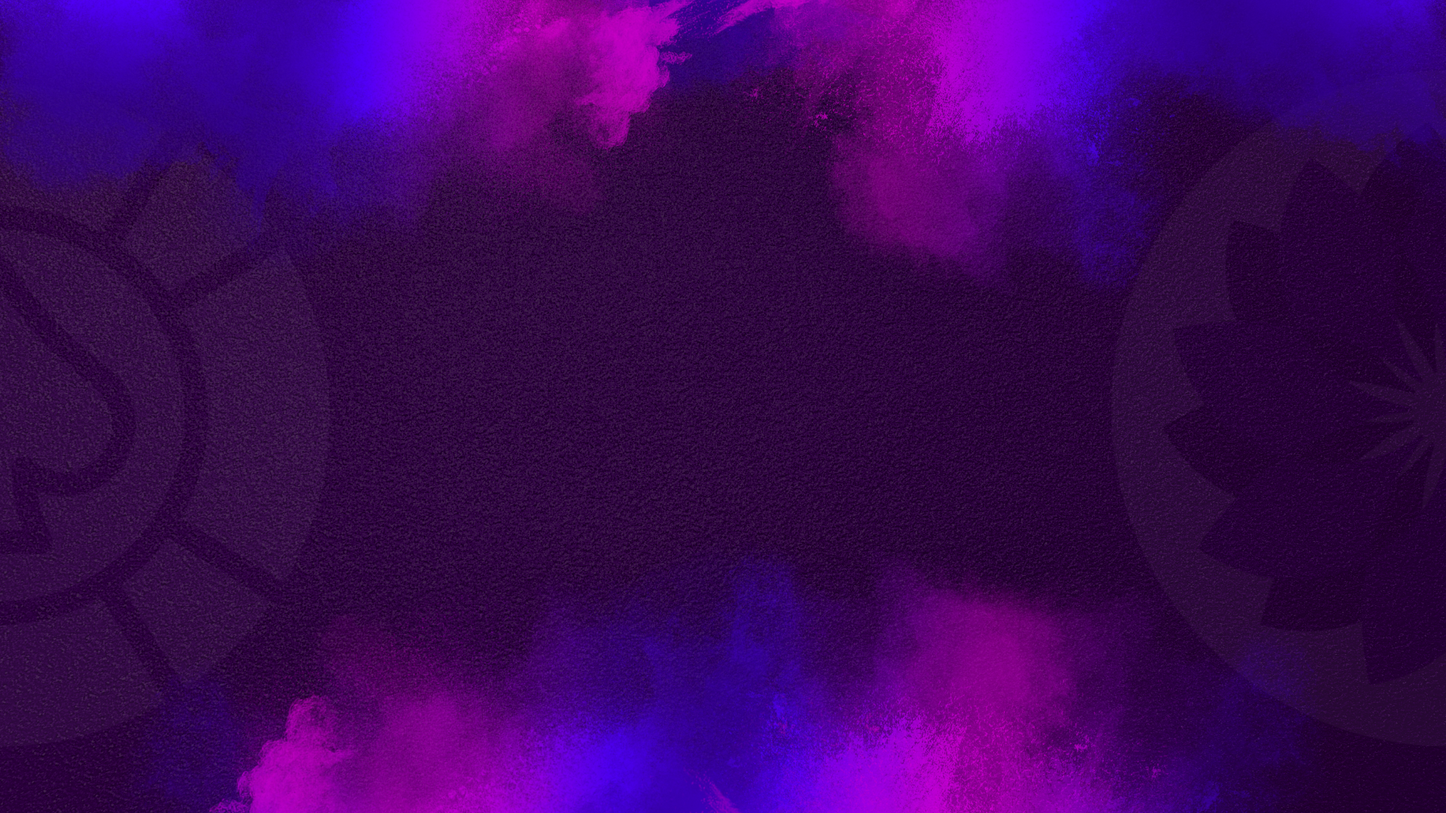
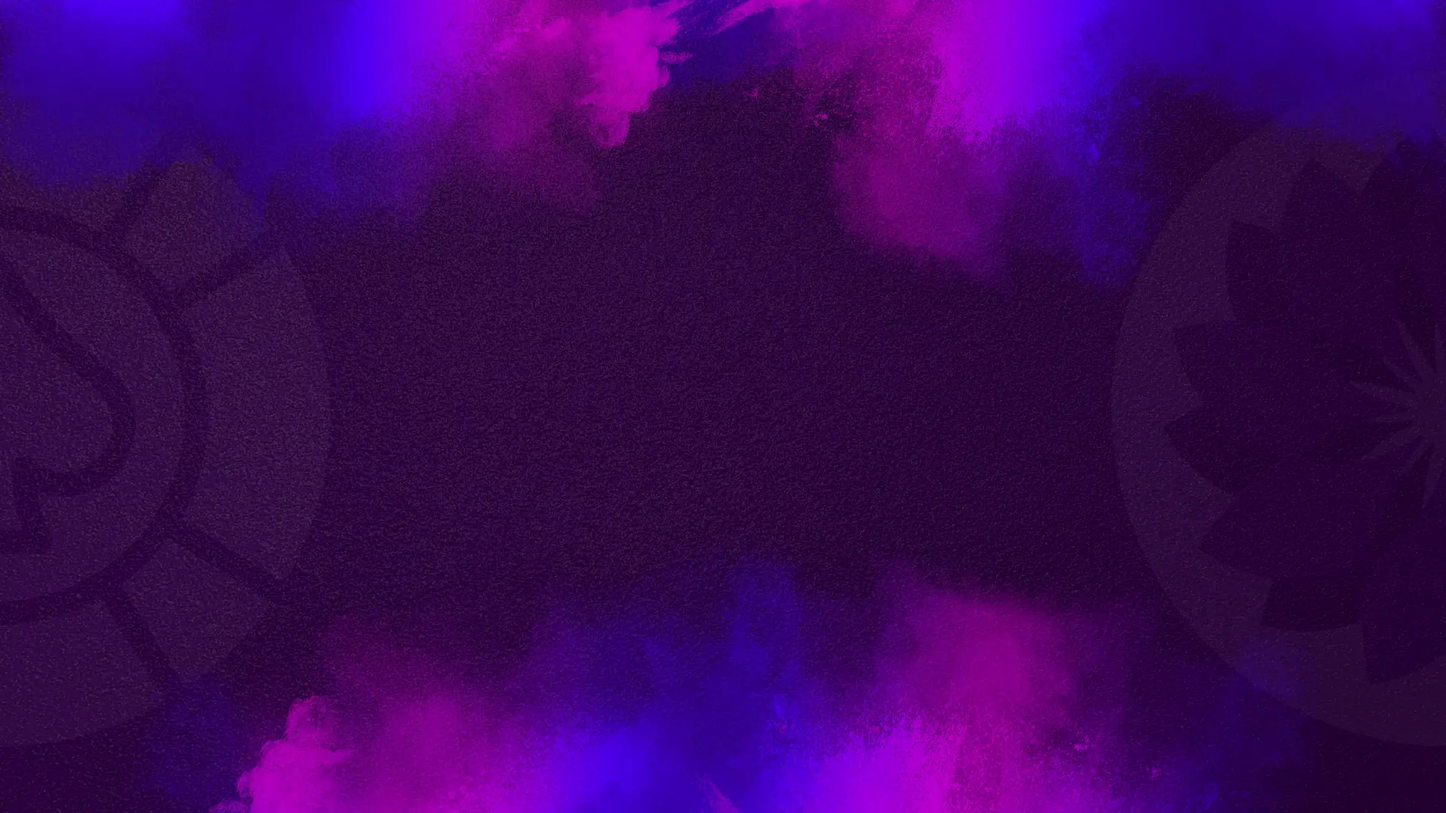
assets convertion

Changed region(s): [[0.7188, 0.1222, 0.7812, 0.1833], [0.6562, 0.1528, 0.6875, 0.1833]]

diff --git a/src/components/ui/LoadingScreen.tsx b/src/components/ui/LoadingScreen.tsx
@@ -29,7 +29,7 @@ export default function LoadingScreen() {
       bg-gradient-to-br from-purple-900/40 via-purple-800/30 to-purple-950/40
       ${isExiting ? 'animate-fade-out' : ''}`}
       style={{
-        backgroundImage: `url('${getImagePath('/assets/Fondo_smoke.png')}')`,
+        backgroundImage: `url('${getImagePath('/assets/Fondo_smoke.webp')}')`,
         backgroundSize: 'cover',
         backgroundPosition: 'center',
         backgroundRepeat: 'no-repeat',
